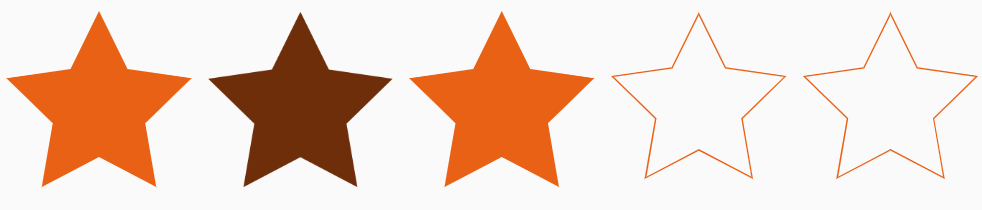
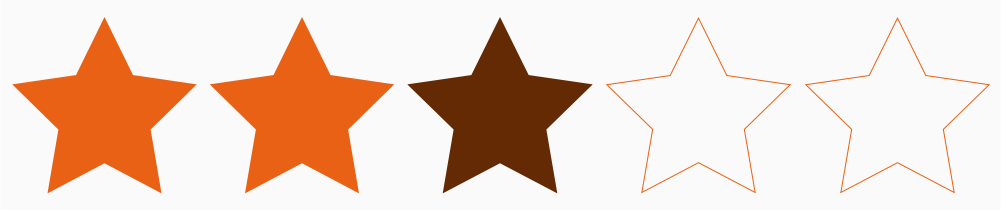
Add clarification that change of color still needs sufficient 3:1 ratio, darken focused star (#3568)

diff --git a/understanding/22/focus-appearance.html b/understanding/22/focus-appearance.html
@@ -130,7 +130,7 @@
               
                 <p class="note">Prefer using focus indicator techniques that scale with both the width and height of the focused control. Otherwise, if controls change size across different variations of a page (for example, in a responsive design), the indicator might meet the area requirement in some variations but not others. For example, in the above figure, if the width of the two highlight rectangles did not scale as the button grew wider, it would stop meeting the minimum area requirement if the button needed to grow any wider to accomodate a longer button label.</p>
 
-                <p>Another way of achieving the area requirement is to alter the appearance of the entire component, for instance by changing its color. This can be effective in a set of closely placed buttons. The following example demonstrates this with 5 rating stars; the center star is filled in with a darker color to indicate focus. However, it is much more difficult to detect such a focus indicator when components are not near each other and so cannot be easily compared. For users using magnification, even components relatively close together may be difficult to compare, so it is not considered a best practice.</p>
+                <p>Another way of achieving the area requirement is to alter the appearance of the entire component, for instance by changing its color – provided that the new color has a contrast ratio of at least 3:1 against the original color. This can be effective in a set of closely placed buttons. The following example demonstrates this with 5 rating stars; the center star is filled in with a darker color to indicate focus. However, it is much more difficult to detect such a focus indicator when components are not near each other and so cannot be easily compared. For users using magnification, even components relatively close together may be difficult to compare, so it is not considered a best practice.</p>
 
                 <figure id="focus-indicator-whole-star">
                     <img src="img/focus-indicator-whole-star.svg" alt="3 of 5 stars are selected with the whole third star altered in color to indicate focus" />
